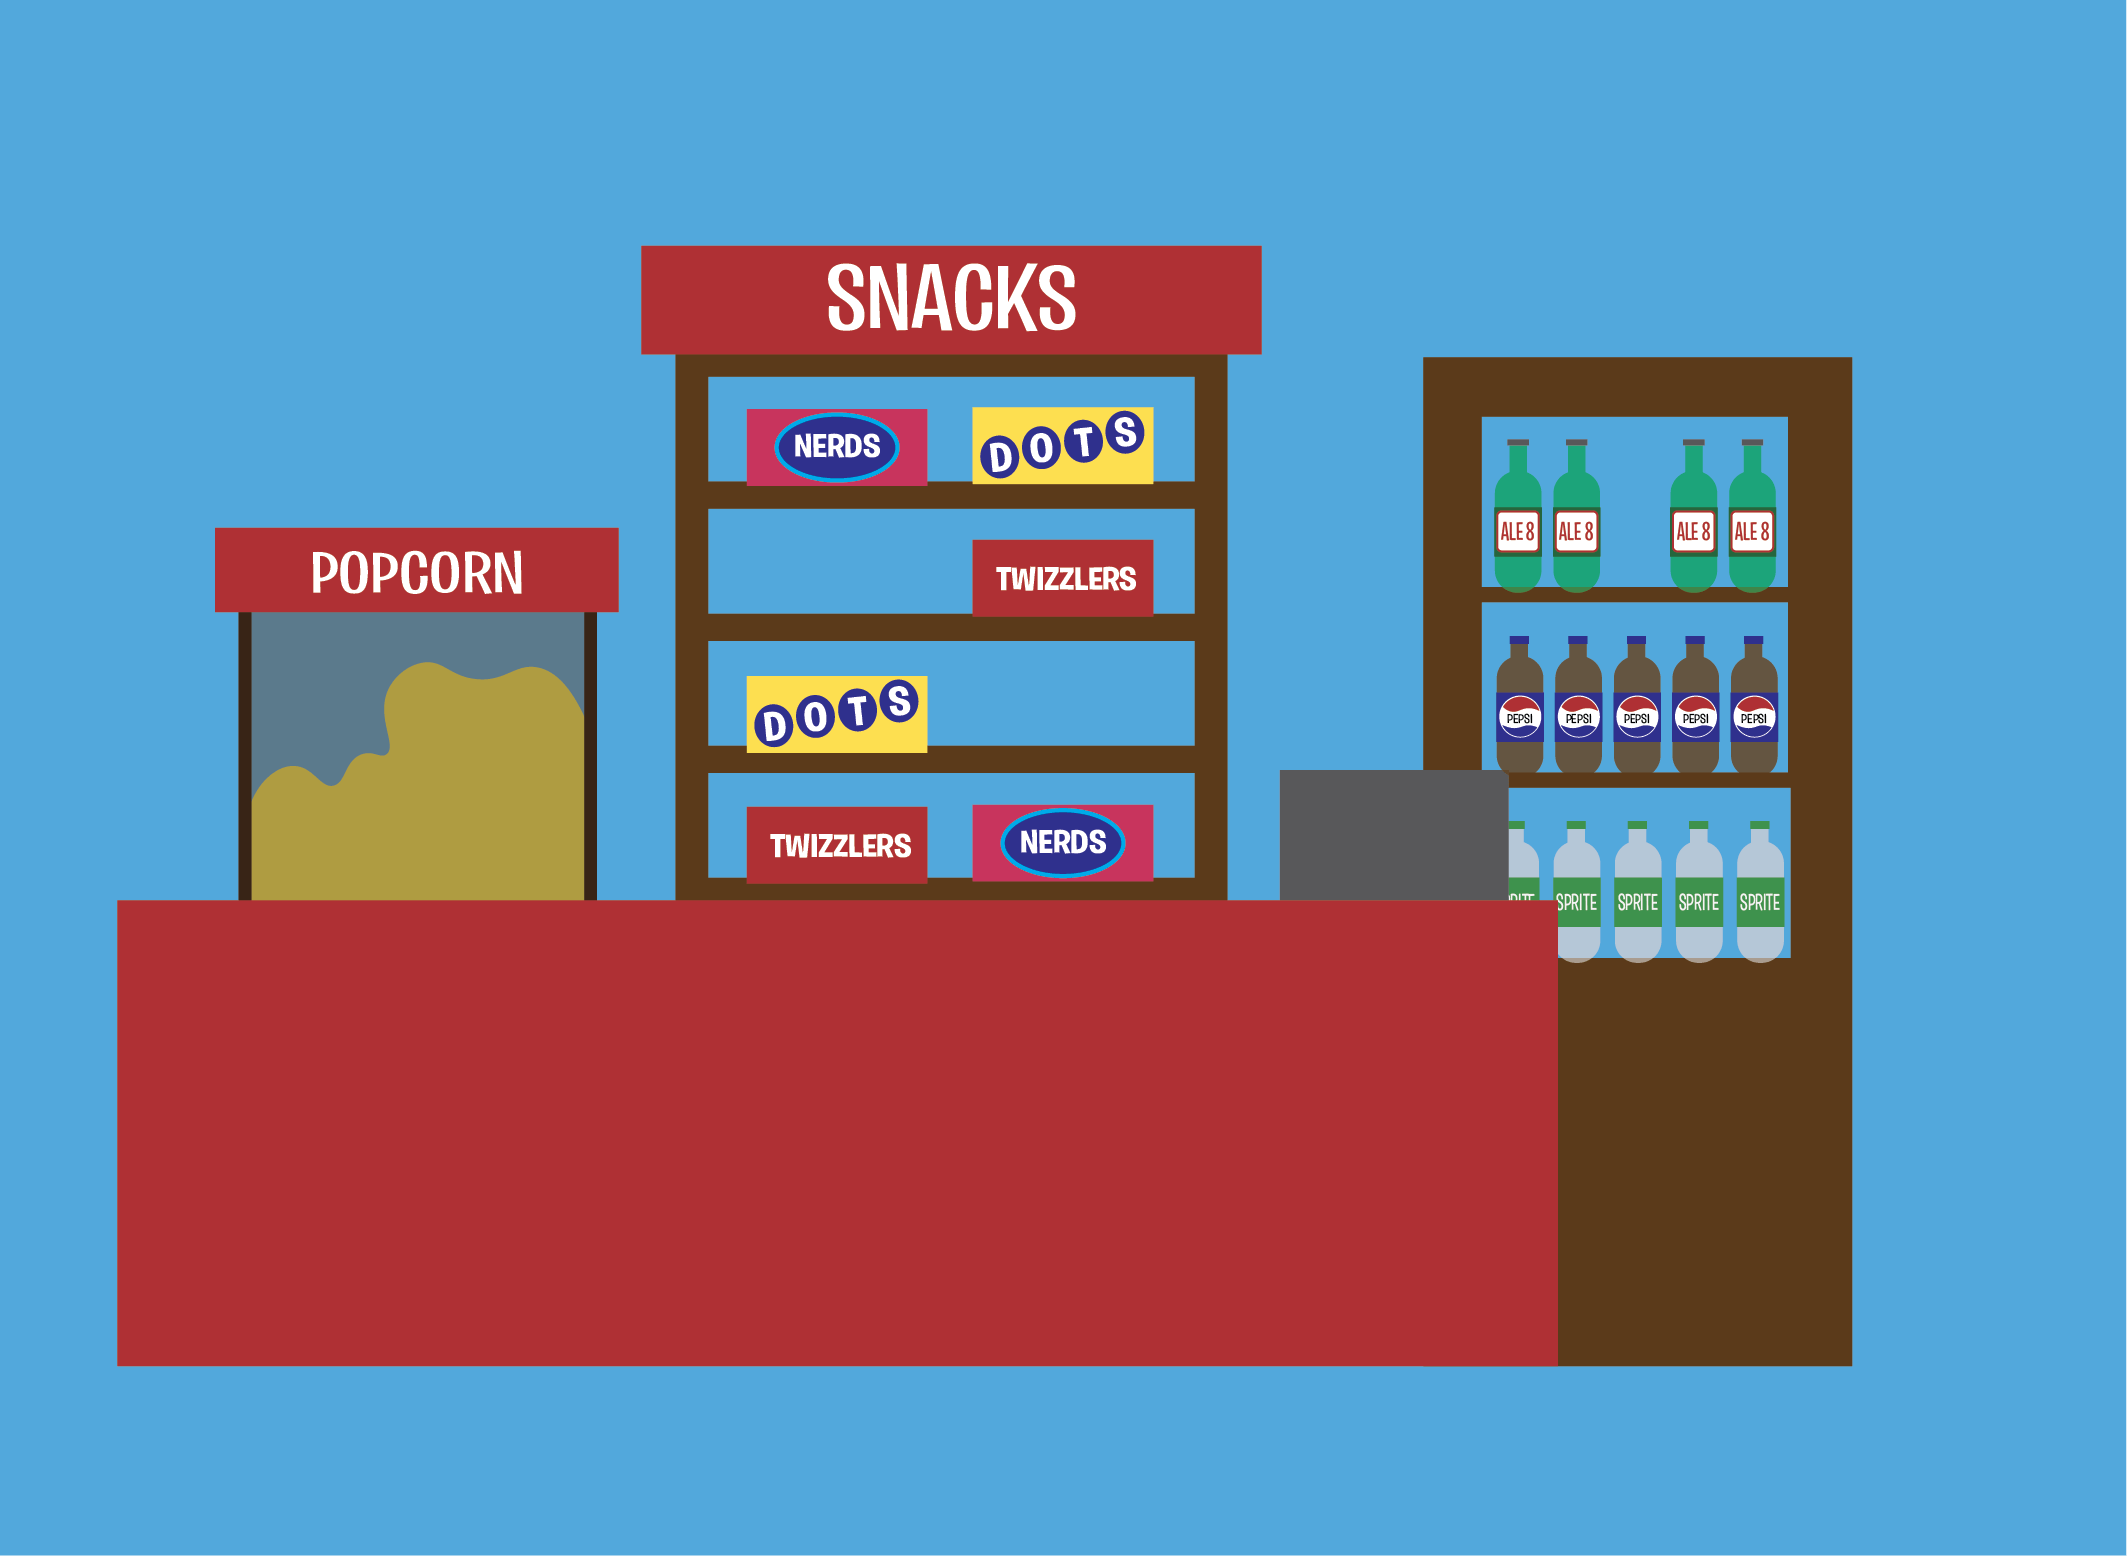
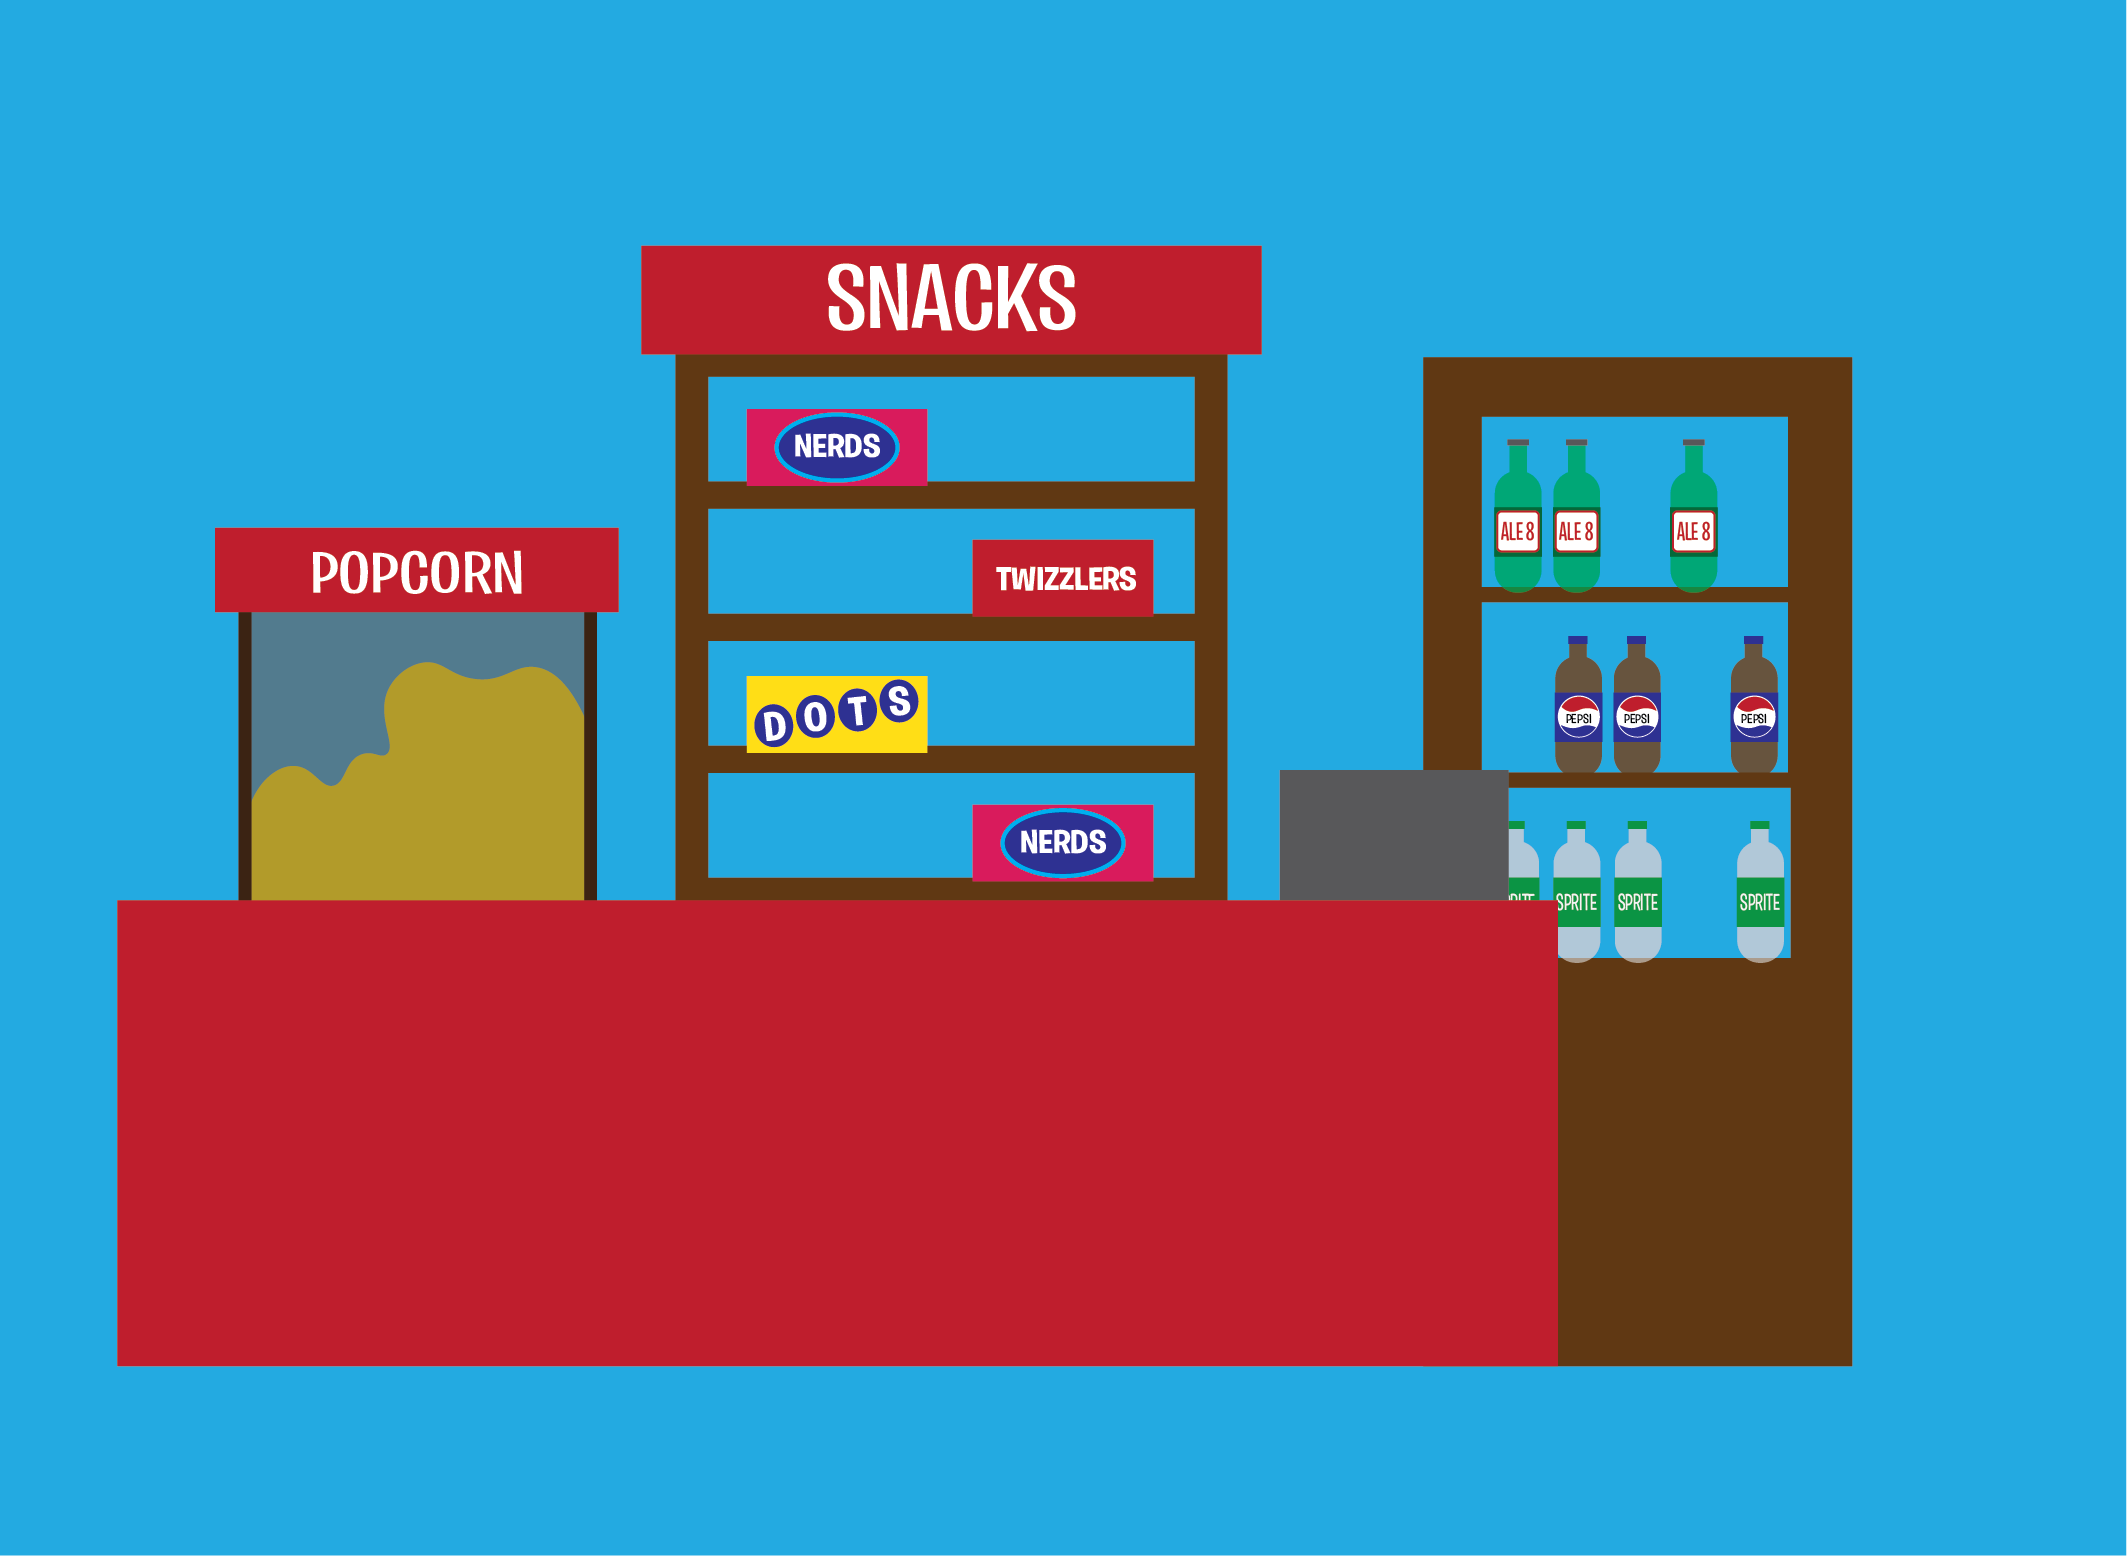
Add files via upload

diff --git a/style.css b/style.css
@@ -244,6 +244,132 @@ body{
     display: none;
 }
 
+#ale82{
+    height: 81px;
+    width: 90px;
+    top: 233px;
+    left: 1138px;
+    position: absolute;
+    background: url(ALE8.png);
+    background-size: contain;
+    z-index: 4;
+    background-repeat: no-repeat;
+    display: block;
+}
+
+#ale82:hover{
+    transform: rotate(15deg);
+}
+
+#ale82:target{
+    display: none;
+}
+
+#pepsi{
+    height: 81px;
+    width: 90px;
+    top: 333px;
+    left: 1015px;
+    position: absolute;
+    background: url(pepsi.png);
+    background-size: contain;
+    z-index: 4;
+    background-repeat: no-repeat;
+    display: block;
+}
+
+#pepsi:hover{
+    transform: rotate(15deg);
+}
+
+#pepsi:target{
+    display: none;
+}
+
+#pepsi2{
+    height: 81px;
+    width: 90px;
+    top: 333px;
+    left: 1105px;
+    position: absolute;
+    background: url(pepsi.png);
+    background-size: contain;
+    z-index: 4;
+    background-repeat: no-repeat;
+    display: block;
+}
+
+#pepsi2:hover{
+    transform: rotate(15deg);
+}
+
+#pepsi2:target{
+    display: none;
+}
+
+#sprite{
+    height: 75px;
+    width: 90px;
+    top: 429px;
+    left: 1109px;
+    position: absolute;
+    background: url(sprite.png);
+    background-size: contain;
+    z-index: 4;
+    background-repeat: no-repeat;
+    display: block;
+}
+
+#sprite:hover{
+    transform: rotate(15deg);
+}
+
+#sprite:target{
+    display: none;
+}
+
+#twizzlers{
+    height: 42px;
+    width: 100px;
+    top: 420px;
+    left: 630px;
+    position: absolute;
+    background: url(twizzlers.png);
+    background-size: contain;
+    z-index: 4;
+    background-repeat: no-repeat;
+    display: block;
+}
+
+#twizzlers:hover{
+    transform: rotate(15deg);
+}
+
+#twizzlers:target{
+    display: none;
+}
+
+#dots{
+    height: 42px;
+    width: 100px;
+    top: 215px;
+    left: 745px;
+    position: absolute;
+    background: url(dots.png);
+    background-size: contain;
+    z-index: 4;
+    background-repeat: no-repeat;
+    display: block;
+}
+
+#dots:hover{
+    transform: rotate(15deg);
+}
+
+#dots:target{
+    display: none;
+}
+
 #register{
     height: 67px;
     width: 120px;
@@ -253,6 +379,21 @@ body{
     background-color: gray;
     z-index: 4;
     cursor: pointer;
+}
+
+#one-snack{
+    left: 310px;
+    background-color: white;
+    padding: 10px;
+    border-style: solid;
+    border-color: black;
+    border-radius: 20px;
+    text-align: center;
+    position: absolute;
+    color: black;
+    font-family: 'Courier New', Courier, monospace;
+    font-size: 50px; 
+    z-index: 1;
 }
 
 #checkout{
@@ -351,4 +492,19 @@ body{
     z-index: 3;
 }
 
+#restart{
+    height: 40px;
+    width: 100px;
+    padding: 10px;
+    position: absolute;
+    top: 540px;
+    left: 610px;
+    z-index: 8;
+    display: none;
+    transition:  0.1s ease;
+}
+
+#toggle-move:checked ~ #restart {
+    display: block;
+}
 

diff --git a/snack.html b/snack.html
@@ -4,7 +4,14 @@
 </head>
 <body>
     <div class="fullsize"><img src="snack.png"> </div>
+    <div id="one-snack"> please only choose one snack</div>
     <a href="#ale8" id="ale8"></a>
+    <a href="#ale82" id="ale82"></a>
+    <a href="#sprite" id="sprite"></a>
+    <a href="#pepsi" id="pepsi"></a>
+    <a href="#pepsi2" id="pepsi2"></a>
+    <a href="#twizzlers" id="twizzlers"></a>
+    <a href="#dots" id="dots"></a>
     <a href="#milkduds" id="milkduds"></a>
     <a href="#milk-duds2" id="milk-duds2"></a>
     <label for="toggle" id="register"></label>

diff --git a/watch.html b/watch.html
@@ -8,5 +8,6 @@
     <label for="toggle-move" class="toggle-label"></label>
     <div id="curtain"></div>
     <div id="enjoy-movie"> enjoy the movie :)</div>
+    <a href="index.html" class="button" id="restart">restart</a>
     </body>
 </html>
